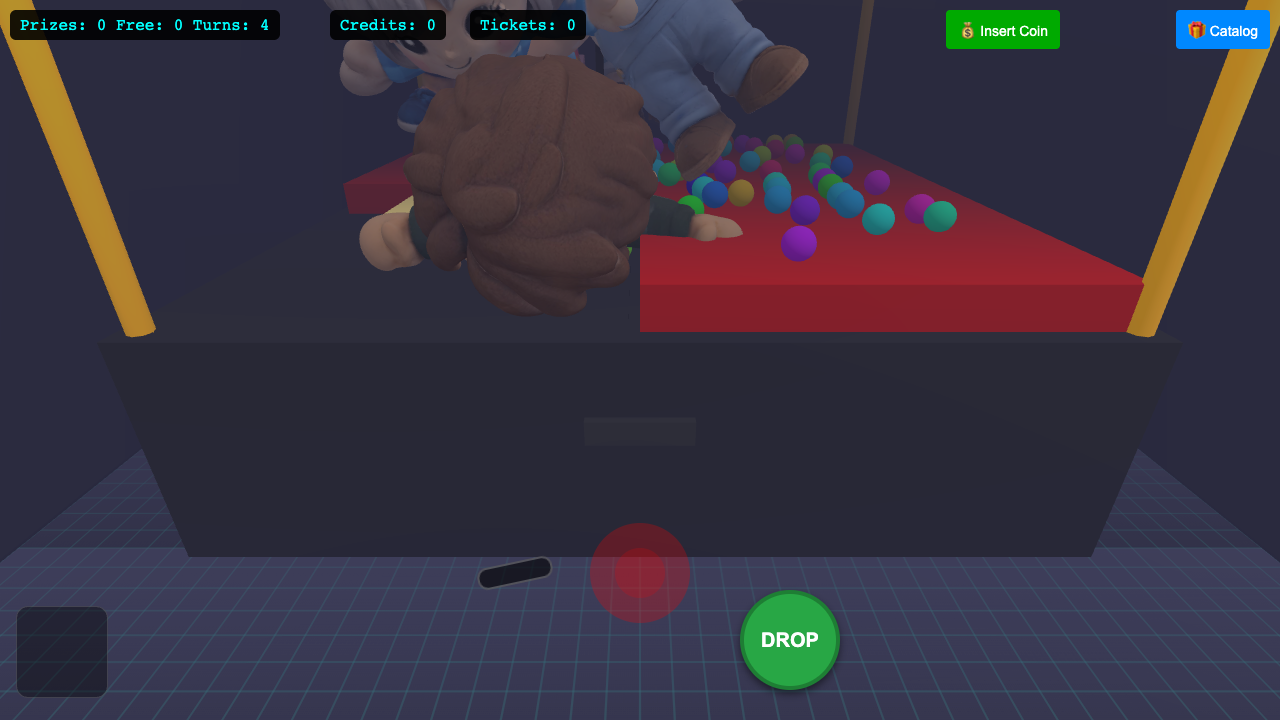
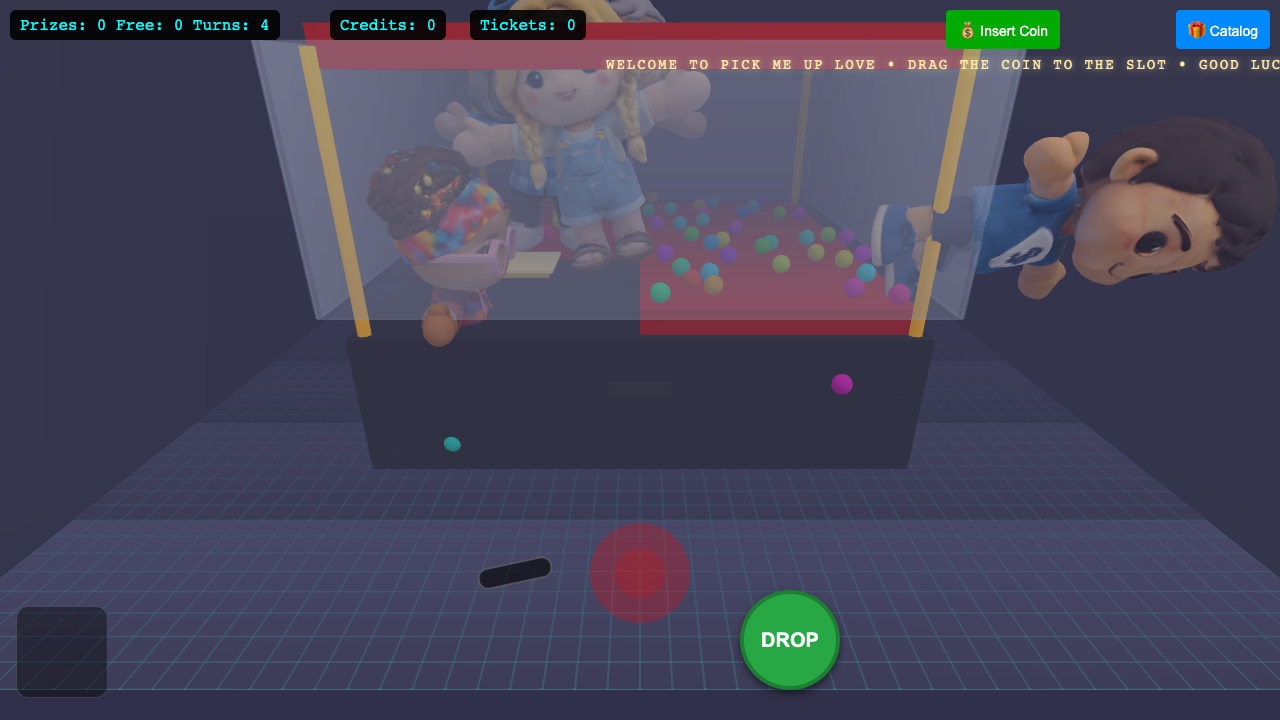
Enhance claw-machine lighting

diff --git a/index.html b/index.html
@@ -134,6 +134,62 @@
             z-index: 20;
         }
 
+        #marquee {
+            position: absolute;
+            top: 56px;
+            left: 0;
+            right: 0;
+            overflow: hidden;
+            height: 28px;
+            z-index: 24;
+            pointer-events: none;
+        }
+
+        .marquee-track {
+            display: inline-block;
+            padding-left: 100%;
+            white-space: nowrap;
+            color: #ffeaa7;
+            font-size: 14px;
+            letter-spacing: 2px;
+            text-shadow: 0 0 8px rgba(255, 234, 167, 0.6);
+            animation: marquee 18s linear infinite;
+        }
+
+        #winBanner {
+            position: absolute;
+            top: 90px;
+            left: 50%;
+            transform: translateX(-50%) scale(0.8);
+            padding: 10px 26px;
+            background: rgba(0, 0, 0, 0.6);
+            border: 2px solid rgba(255, 255, 255, 0.25);
+            border-radius: 18px;
+            color: #fff2b0;
+            font-size: 20px;
+            letter-spacing: 3px;
+            text-shadow: 0 0 10px rgba(255, 242, 176, 0.8);
+            opacity: 0;
+            z-index: 26;
+            pointer-events: none;
+        }
+
+        #winBanner.show {
+            animation: win-pop 1.2s ease-out forwards;
+        }
+
+        @keyframes win-pop {
+            0% { opacity: 0; transform: translateX(-50%) scale(0.6); }
+            20% { opacity: 1; transform: translateX(-50%) scale(1.1); }
+            60% { opacity: 1; transform: translateX(-50%) scale(1); }
+            100% { opacity: 0; transform: translateX(-50%) scale(0.9); }
+        }
+
+        @keyframes marquee {
+            0% { transform: translateX(0); }
+            100% { transform: translateX(-100%); }
+        }
+
         #coinTray {
             position: absolute;
             bottom: 22px;
@@ -264,6 +320,12 @@
 
     <button id="insertCoin">💰 Insert Coin</button>
     <button id="toggleCatalog">🎁 Catalog</button>
+
+    <div id="marquee">
+        <div class="marquee-track">WELCOME TO PICK ME UP LOVE • DRAG THE COIN TO THE SLOT • GOOD LUCK • WIN BIG •</div>
+    </div>
+
+    <div id="winBanner">JACKPOT!</div>
 
     <div id="coinTray">
         <div id="coinDrag" class="coin">COIN</div>
@@ -401,7 +463,7 @@
             catalogEl.style.display = isHidden ? 'block' : 'none';
         };
 
-        // Coin insertion
+        // Coin insertion (drag to slot only)
         function addCoin() {
             credits++;
             turns++;
@@ -409,12 +471,14 @@
             audio.playTone(520, 'square', 0.12);
         }
 
-        document.getElementById('insertCoin').onclick = addCoin;
+        document.getElementById('insertCoin').onclick = () => {
+            alert('Drag the coin to the slot to add credits!');
+        };
 
         // Three.js Setup
         const scene = new THREE.Scene();
         const camera = new THREE.PerspectiveCamera(60, window.innerWidth / window.innerHeight, 0.1, 1000);
-        camera.position.set(0, 180, 360);
+        camera.position.set(0, 240, 520);
         const renderer = new THREE.WebGLRenderer({ canvas: document.querySelector('canvas'), antialias: true });
         renderer.setSize(window.innerWidth, window.innerHeight);
         renderer.setPixelRatio(window.devicePixelRatio);
@@ -425,19 +489,21 @@
         // Controls
         const controls = new OrbitControls(camera, renderer.domElement);
         controls.enablePan = false;
-        controls.minDistance = 140;
-        controls.maxDistance = 620;
+        controls.minDistance = 220;
+        controls.maxDistance = 900;
 
 
         // Lights
         // Lights
-        scene.background = new THREE.Color(0x24243a);
-        scene.fog = new THREE.FogExp2(0x24243a, 0.003);
+        scene.background = new THREE.Color(0x30304a);
+        scene.fog = new THREE.FogExp2(0x30304a, 0.0022);
 
-        scene.add(new THREE.AmbientLight(0xbfbfbf, 3.2));
-        scene.add(new THREE.HemisphereLight(0xfffff8, 0x4a4a66, 1.8));
+        const ambientLight = new THREE.AmbientLight(0xd0d0d0, 4.0);
+        scene.add(ambientLight);
+        const hemiLight = new THREE.HemisphereLight(0xfffffb, 0x5a5a78, 2.2);
+        scene.add(hemiLight);
 
-        const dirLight = new THREE.DirectionalLight(0xffffff, 2.8);
+        const dirLight = new THREE.DirectionalLight(0xffffff, 3.6);
         dirLight.position.set(100, 200, 100);
         dirLight.castShadow = false;
         scene.add(dirLight);
@@ -473,7 +539,7 @@
             floorTex.anisotropy = renderer.capabilities.getMaxAnisotropy();
         }
         const floor = new THREE.Mesh(
-            new THREE.PlaneGeometry(MACHINE_SCALE * 12, MACHINE_SCALE * 12),
+            new THREE.PlaneGeometry(MACHINE_SCALE * 16, MACHINE_SCALE * 16),
             new THREE.MeshStandardMaterial({ map: floorTex, metalness: 0.1, roughness: 0.9 })
         );
         floor.rotation.x = -Math.PI / 2;
@@ -490,8 +556,8 @@
             metalness: 0.05,
             side: THREE.DoubleSide
         });
-        const roomSize = MACHINE_SCALE * 12;
-        const roomHeight = MACHINE_SCALE * 7.5;
+        const roomSize = MACHINE_SCALE * 16;
+        const roomHeight = MACHINE_SCALE * 10;
         const roomWallGeo = new THREE.PlaneGeometry(roomSize, roomHeight);
         const roomHalf = roomSize / 2;
         const roomWallY = roomHeight / 2;
@@ -529,42 +595,42 @@
         scene.add(dust);
 
         // Arcade Cabinet Internal SpotLight
-        const spotLight = new THREE.SpotLight(0xfff2c2, 8.5);
-        spotLight.position.set(0, 140, 30);
-        spotLight.angle = Math.PI / 3.4;
+        const spotLight = new THREE.SpotLight(0xfff6d6, 11);
+        spotLight.position.set(0, 180, 40);
+        spotLight.angle = Math.PI / 3.6;
         spotLight.penumbra = 0.5;
         spotLight.decay = 2;
-        spotLight.distance = 520;
+        spotLight.distance = 700;
         spotLight.target.position.set(0, 0, 0);
         scene.add(spotLight);
         scene.add(spotLight.target);
 
-        const cabinetFill = new THREE.PointLight(0xffffff, 2.8, 320);
-        cabinetFill.position.set(0, 70, 25);
+        const cabinetFill = new THREE.PointLight(0xffffff, 3.6, 420);
+        cabinetFill.position.set(0, 90, 32);
         scene.add(cabinetFill);
 
-        const cabinetFillLow = new THREE.PointLight(0x88bbff, 2.2, 280);
-        cabinetFillLow.position.set(0, 35, -18);
+        const cabinetFillLow = new THREE.PointLight(0x88bbff, 3.0, 360);
+        cabinetFillLow.position.set(0, 48, -24);
         scene.add(cabinetFillLow);
 
-        const neonCyan = new THREE.PointLight(0x00ffff, 2.5, 680);
-        neonCyan.position.set(150, 120, 140);
+        const neonCyan = new THREE.PointLight(0x00ffff, 3.2, 900);
+        neonCyan.position.set(190, 160, 180);
         scene.add(neonCyan);
 
-        const neonMagenta = new THREE.PointLight(0xff33cc, 2.4, 640);
-        neonMagenta.position.set(-150, 110, -130);
+        const neonMagenta = new THREE.PointLight(0xff33cc, 3.0, 860);
+        neonMagenta.position.set(-190, 150, -180);
         scene.add(neonMagenta);
 
-        const overhead = new THREE.PointLight(0xffffff, 3.2, 1000);
-        overhead.position.set(0, 240, 0);
+        const overhead = new THREE.PointLight(0xffffff, 4.2, 1400);
+        overhead.position.set(0, 320, 0);
         scene.add(overhead);
 
-        const rimWarm = new THREE.PointLight(0xffaa88, 2.0, 560);
-        rimWarm.position.set(-210, 100, 210);
+        const rimWarm = new THREE.PointLight(0xffaa88, 2.6, 760);
+        rimWarm.position.set(-260, 140, 260);
         scene.add(rimWarm);
 
-        const rimCool = new THREE.PointLight(0x88ccff, 2.0, 560);
-        rimCool.position.set(210, 110, -210);
+        const rimCool = new THREE.PointLight(0x88ccff, 2.6, 760);
+        rimCool.position.set(260, 150, -260);
         scene.add(rimCool);
 
         // Light Manager
@@ -611,6 +677,9 @@
             setMode(m) { this.mode = m; this.timer = 0; }
         }
         const lights = new LightManager();
+        const baseAmbientIntensity = ambientLight.intensity;
+        const baseDirIntensity = dirLight.intensity;
+        const baseHemiIntensity = hemiLight.intensity;
 
 
         // Physics
@@ -640,7 +709,10 @@
         const FLOOR_THICKNESS = 0.5;
         const FLOOR_TOP_Y = FLOOR_Y + FLOOR_THICKNESS / 2;
         const CLAW_BOTTOM_Y = FLOOR_TOP_Y - 0.05;
-        const SPAWN_BOUNDS = { minX: -3.2, maxX: 3.2, minZ: -3.2, maxZ: 3.2 };
+        const SPAWN_BOUNDS = { minX: -4.6, maxX: 4.6, minZ: -4.6, maxZ: 4.6 };
+        const PRIZE_WALL_HEIGHT = 3.4;
+        const PRIZE_WALL_THICKNESS = 0.08;
+        const PRIZE_WALL_Y = FLOOR_TOP_Y + PRIZE_WALL_HEIGHT / 2;
 
         const baseMat = new THREE.MeshStandardMaterial({ color: 0xff0000, metalness: 0.3, roughness: 0.7 });
 
@@ -701,11 +773,27 @@
         addStaticBox(new CANNON.Vec3(2, FLOOR_THICKNESS / 2, 4), new CANNON.Vec3(2, FLOOR_Y, 0), floorMaterial);
         addStaticBox(new CANNON.Vec3(2, FLOOR_THICKNESS / 2, 2), new CANNON.Vec3(-2, FLOOR_Y, -2), floorMaterial);
 
-        // Physics walls (glass boundaries)
-        addStaticBox(new CANNON.Vec3(4, 3, 0.1), new CANNON.Vec3(0, 3, 4), floorMaterial);
-        addStaticBox(new CANNON.Vec3(4, 3, 0.1), new CANNON.Vec3(0, 3, -4), floorMaterial);
-        addStaticBox(new CANNON.Vec3(0.1, 3, 4), new CANNON.Vec3(4, 3, 0), floorMaterial);
-        addStaticBox(new CANNON.Vec3(0.1, 3, 4), new CANNON.Vec3(-4, 3, 0), floorMaterial);
+        // Physics walls (prize area)
+        addStaticBox(new CANNON.Vec3(4.4, PRIZE_WALL_HEIGHT / 2, PRIZE_WALL_THICKNESS / 2), new CANNON.Vec3(0, PRIZE_WALL_Y, 4.4), floorMaterial);
+        addStaticBox(new CANNON.Vec3(4.4, PRIZE_WALL_HEIGHT / 2, PRIZE_WALL_THICKNESS / 2), new CANNON.Vec3(0, PRIZE_WALL_Y, -4.4), floorMaterial);
+        addStaticBox(new CANNON.Vec3(PRIZE_WALL_THICKNESS / 2, PRIZE_WALL_HEIGHT / 2, 4.4), new CANNON.Vec3(4.4, PRIZE_WALL_Y, 0), floorMaterial);
+        addStaticBox(new CANNON.Vec3(PRIZE_WALL_THICKNESS / 2, PRIZE_WALL_HEIGHT / 2, 4.4), new CANNON.Vec3(-4.4, PRIZE_WALL_Y, 0), floorMaterial);
+
+        const prizeGlassMat = new THREE.MeshStandardMaterial({ color: 0xddeeff, transparent: true, opacity: 0.22, side: THREE.DoubleSide });
+        const prizeWallLong = new THREE.BoxGeometry(8.8, PRIZE_WALL_HEIGHT, PRIZE_WALL_THICKNESS);
+        const prizeWallShort = new THREE.BoxGeometry(PRIZE_WALL_THICKNESS, PRIZE_WALL_HEIGHT, 8.8);
+        const frontWall = new THREE.Mesh(prizeWallLong, prizeGlassMat);
+        frontWall.position.set(0, PRIZE_WALL_Y, 4.4);
+        machine.add(frontWall);
+        const backWall = new THREE.Mesh(prizeWallLong, prizeGlassMat);
+        backWall.position.set(0, PRIZE_WALL_Y, -4.4);
+        machine.add(backWall);
+        const leftWall = new THREE.Mesh(prizeWallShort, prizeGlassMat);
+        leftWall.position.set(-4.4, PRIZE_WALL_Y, 0);
+        machine.add(leftWall);
+        const rightWall = new THREE.Mesh(prizeWallShort, prizeGlassMat);
+        rightWall.position.set(4.4, PRIZE_WALL_Y, 0);
+        machine.add(rightWall);
 
         // Machine glass walls removed; room walls now define the environment.
         const top = new THREE.Mesh(new THREE.BoxGeometry(8, 0.5, 8), baseMat);
@@ -788,6 +876,40 @@
         clawLight.position.set(0, -0.6, 0);
         clawGroup.add(clawLight);
 
+        // Confetti for win feedback
+        const confettiCount = 220;
+        const confettiPositions = new Float32Array(confettiCount * 3);
+        const confettiVel = new Float32Array(confettiCount * 3);
+        const confettiColors = new Float32Array(confettiCount * 3);
+        const confettiGeo = new THREE.BufferGeometry();
+        confettiGeo.setAttribute('position', new THREE.BufferAttribute(confettiPositions, 3));
+        confettiGeo.setAttribute('color', new THREE.BufferAttribute(confettiColors, 3));
+        const confettiMat = new THREE.PointsMaterial({ size: 0.18, vertexColors: true, transparent: true, opacity: 0.95 });
+        const confetti = new THREE.Points(confettiGeo, confettiMat);
+        confetti.visible = false;
+        machine.add(confetti);
+        let confettiLife = 0;
+
+        function spawnConfetti(origin) {
+            for (let i = 0; i < confettiCount; i++) {
+                const idx = i * 3;
+                confettiPositions[idx] = origin.x + (Math.random() - 0.5) * 2.8;
+                confettiPositions[idx + 1] = origin.y + (Math.random() * 2.2);
+                confettiPositions[idx + 2] = origin.z + (Math.random() - 0.5) * 2.8;
+                confettiVel[idx] = (Math.random() - 0.5) * 3.5;
+                confettiVel[idx + 1] = 3 + Math.random() * 3.5;
+                confettiVel[idx + 2] = (Math.random() - 0.5) * 3.5;
+                const color = new THREE.Color().setHSL(Math.random(), 0.9, 0.6);
+                confettiColors[idx] = color.r;
+                confettiColors[idx + 1] = color.g;
+                confettiColors[idx + 2] = color.b;
+            }
+            confettiGeo.attributes.position.needsUpdate = true;
+            confettiGeo.attributes.color.needsUpdate = true;
+            confetti.visible = true;
+            confettiLife = 2.4;
+        }
+
         const dropButton = document.getElementById('drop');
         let clawReady = false;
         dropButton.disabled = true;
@@ -795,6 +917,9 @@
             updateCoinHome();
             resetCoin();
         }, 0);
+
+        const winBanner = document.getElementById('winBanner');
+        let winFlash = 0;
 
         // Claw Cord (visual only)
         const cordGeo = new THREE.CylinderGeometry(0.05, 0.05, 1);
@@ -1242,6 +1367,13 @@
             grabbedBody = null;
             currentSlipRisk = 0;
             updateUI();
+            winFlash = 1.4;
+            if (winBanner) {
+                winBanner.classList.remove('show');
+                void winBanner.offsetWidth;
+                winBanner.classList.add('show');
+            }
+            spawnConfetti(new THREE.Vector3(clawGroup.position.x, clawGroup.position.y + 0.6, clawGroup.position.z));
         }
 
         // Timer
@@ -1273,6 +1405,31 @@
                 clawGroup.getWorldPosition(clawWorld);
                 spotLight.target.position.copy(clawWorld);
                 spotLight.target.updateMatrixWorld();
+            }
+
+            if (winFlash > 0) {
+                winFlash = Math.max(0, winFlash - dt);
+                const pulse = 0.5 + Math.sin((1 - winFlash) * 30) * 0.5;
+                ambientLight.intensity = baseAmbientIntensity + winFlash * 2.2 + pulse * 0.6;
+                dirLight.intensity = baseDirIntensity + winFlash * 2.0 + pulse * 0.5;
+                hemiLight.intensity = baseHemiIntensity + winFlash * 1.6 + pulse * 0.4;
+            } else {
+                ambientLight.intensity = baseAmbientIntensity;
+                dirLight.intensity = baseDirIntensity;
+                hemiLight.intensity = baseHemiIntensity;
+            }
+
+            if (confettiLife > 0) {
+                confettiLife -= dt;
+                for (let i = 0; i < confettiCount; i++) {
+                    const idx = i * 3;
+                    confettiVel[idx + 1] -= 3.2 * dt;
+                    confettiPositions[idx] += confettiVel[idx] * dt;
+                    confettiPositions[idx + 1] += confettiVel[idx + 1] * dt;
+                    confettiPositions[idx + 2] += confettiVel[idx + 2] * dt;
+                }
+                confettiGeo.attributes.position.needsUpdate = true;
+                if (confettiLife <= 0) confetti.visible = false;
             }
 
             // Finger Animation
